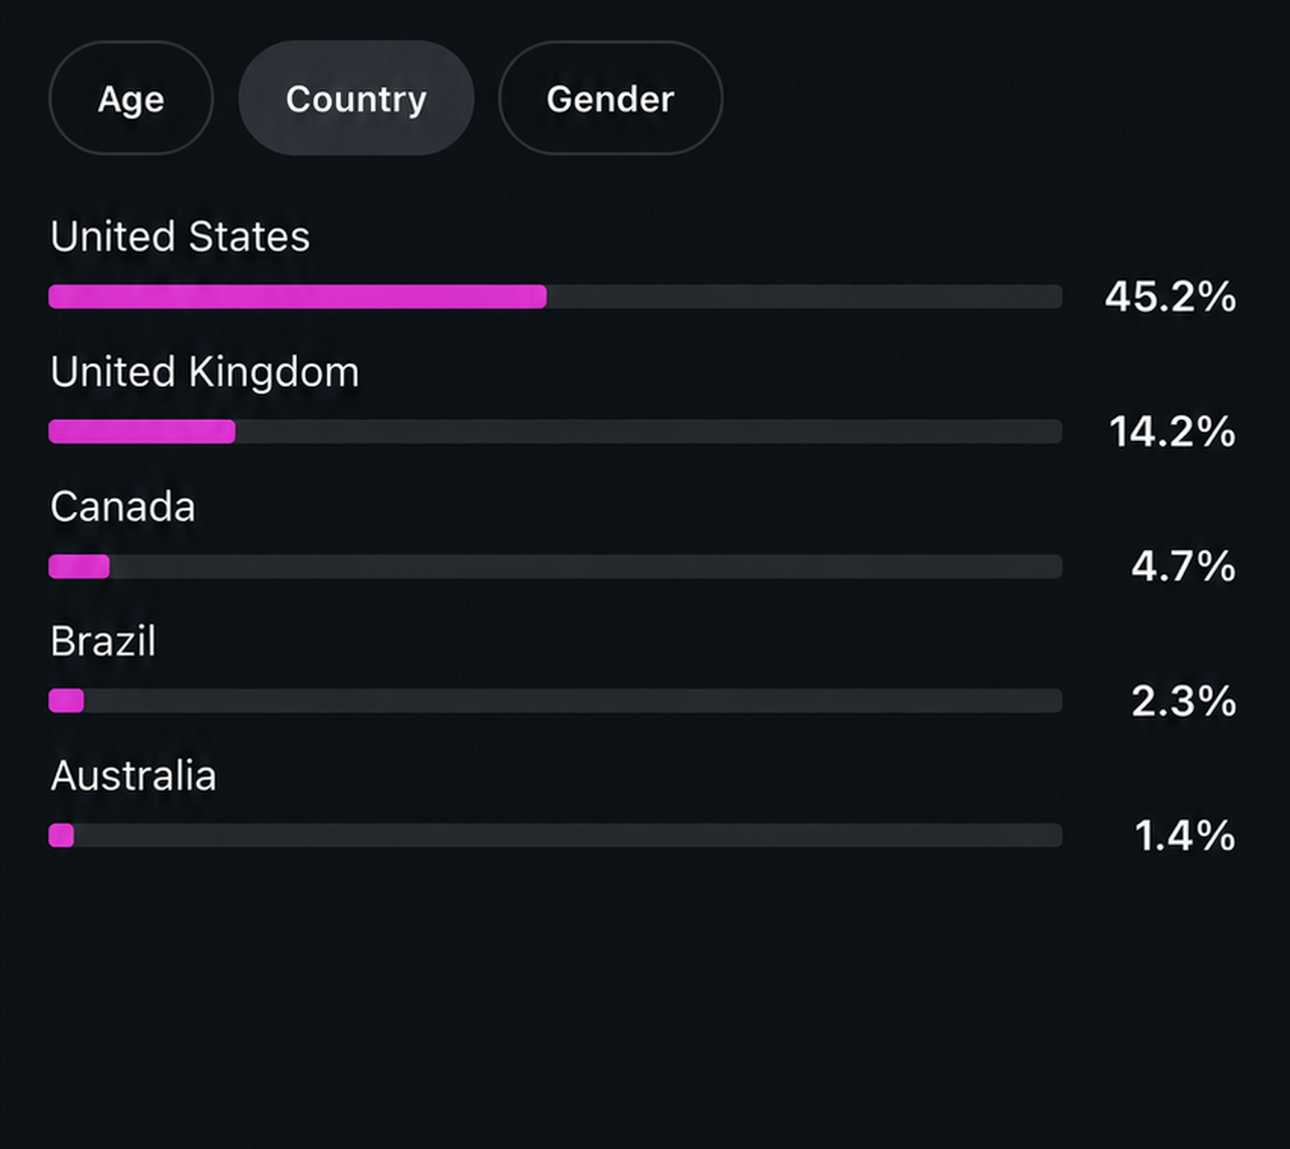
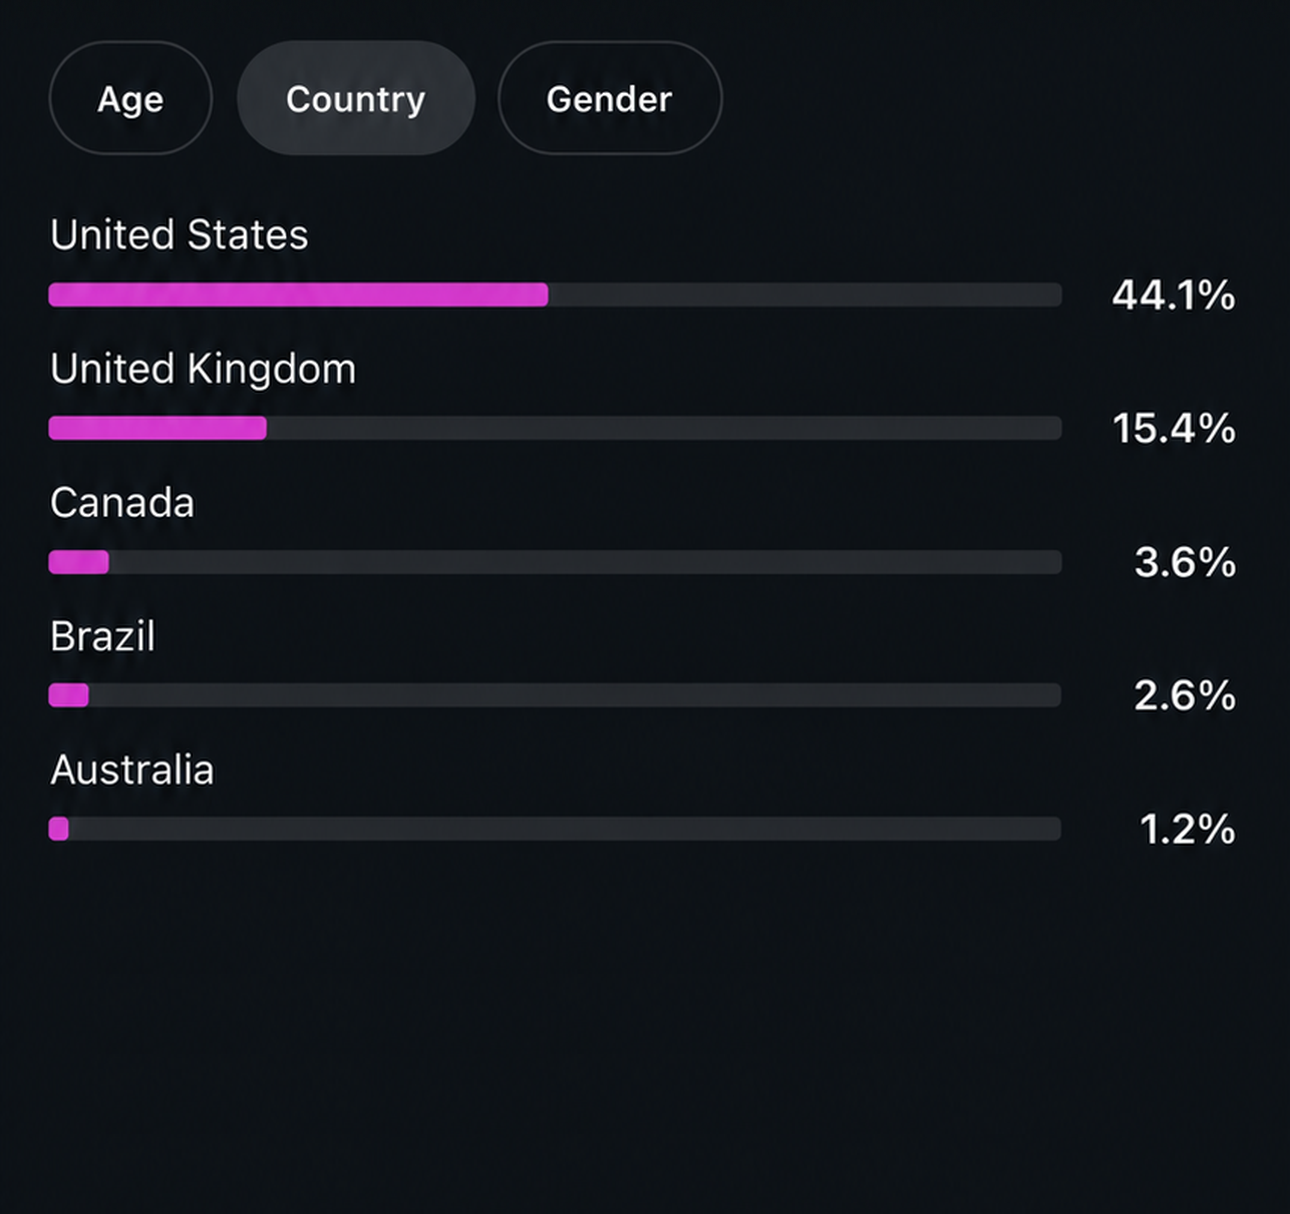
Swap reel 2 country data and decode images before tab swaps to stop the black flash.

diff --git a/new.html b/new.html
@@ -11,14 +11,14 @@
 <meta name="mobile-web-app-capable" content="yes">
 <meta name="apple-mobile-web-app-status-bar-style" content="black-translucent">
 <meta name="theme-color" content="#000000">
-<link rel="manifest" href="manifest_new.json?v=78">
-<link rel="apple-touch-icon" href="icon.png?v=78">
+<link rel="manifest" href="manifest_new.json?v=79">
+<link rel="apple-touch-icon" href="icon.png?v=79">
 <!-- native iOS launch images: iOS shows these INSTANTLY on tap (before our HTML
      loads), killing the system gray phase. Pixel-identical to the in-page splash. -->
-<link rel="apple-touch-startup-image" media="screen and (device-width: 430px) and (device-height: 932px) and (-webkit-device-pixel-ratio: 3) and (orientation: portrait)" href="launch_1290x2796.png?v=78">
-<link rel="apple-touch-startup-image" media="screen and (device-width: 393px) and (device-height: 852px) and (-webkit-device-pixel-ratio: 3) and (orientation: portrait)" href="launch_1179x2556.png?v=78">
+<link rel="apple-touch-startup-image" media="screen and (device-width: 430px) and (device-height: 932px) and (-webkit-device-pixel-ratio: 3) and (orientation: portrait)" href="launch_1290x2796.png?v=79">
+<link rel="apple-touch-startup-image" media="screen and (device-width: 393px) and (device-height: 852px) and (-webkit-device-pixel-ratio: 3) and (orientation: portrait)" href="launch_1179x2556.png?v=79">
 <title>Instagram</title>
-<script src="config.js?v=78"></script>
+<script src="config.js?v=79"></script>
 <script>
 if('serviceWorker' in navigator){
   navigator.serviceWorker.register('sw.js',{updateViaCache:'none'}).then(r=>r.update());
@@ -96,8 +96,8 @@ if('serviceWorker' in navigator){
     animation:insShine 1.4s linear infinite;}
   @keyframes insShine{from{background-position:-85% 0}to{background-position:130% 0}}
   #contentShimmer::after{
-    -webkit-mask-image:url(insights_content_shimmer_mask.png?v=78);
-    mask-image:url(insights_content_shimmer_mask.png?v=78);}
+    -webkit-mask-image:url(insights_content_shimmer_mask.png?v=79);
+    mask-image:url(insights_content_shimmer_mask.png?v=79);}
   #overviewShimmer{display:none;position:relative;overflow:hidden;width:100%;opacity:1;
     transition:opacity .38s ease;}
   #overviewShimmer.on{display:block;}
@@ -105,8 +105,8 @@ if('serviceWorker' in navigator){
   #overviewShimmer.fade{opacity:0;}
   #overviewShimmer img{display:block;width:100%;}
   #overviewShimmer::after{
-    -webkit-mask-image:url(insights_overview_shimmer_mask.png?v=78);
-    mask-image:url(insights_overview_shimmer_mask.png?v=78);}
+    -webkit-mask-image:url(insights_overview_shimmer_mask.png?v=79);
+    mask-image:url(insights_overview_shimmer_mask.png?v=79);}
   /* Overview line chart overlay — sits on the painted graph hole in the screenshot.
      Percents are of insights_overview_full.png (1290×4887): y 766–1296. */
   #viewsGraph{position:absolute;left:0;width:100%;top:15.6742%;height:10.8451%;
@@ -124,14 +124,14 @@ if('serviceWorker' in navigator){
   /* interactions: pinned header (safe-area padding, tiled real-bg strip - the /new1
      pattern) + stitched content + swipe-snap Audience carousel */
   #intHdr{position:sticky;top:0;z-index:10;padding-top:env(safe-area-inset-top,0px);
-          background:#0c1115 url(screens/n_int_hdr_bg.png?v=78) repeat-y;background-size:100% 3px;}
+          background:#0c1115 url(screens/n_int_hdr_bg.png?v=79) repeat-y;background-size:100% 3px;}
   #intHdr img{display:block;width:100%;}
   /* carousel: two snap stops (Top cities at 0, Top countries at D=1066/1290 of the
      viewport). Drag and release -> the card settles into place; ends clamp. */
   #audSnap{width:100%;overflow-x:auto;overflow-y:hidden;scroll-snap-type:x mandatory;
            -webkit-overflow-scrolling:touch;background:#0c1115;}
   #audTrack{width:182.6357%;display:flex;aspect-ratio:2356/685;
-            background:url(screens/n_aud_strip.png?v=78) no-repeat;background-size:100% 100%;}
+            background:url(screens/n_aud_strip.png?v=79) no-repeat;background-size:100% 100%;}
   #audTrack .sA{width:45.2462%;scroll-snap-align:start;}
   #audTrack .sB{width:54.7538%;scroll-snap-align:start;}
 </style>
@@ -143,7 +143,7 @@ if('serviceWorker' in navigator){
     <!-- HOME -->
     <div class="screen active" id="s-home">
       <div class="sheet">
-        <img src="screens/n_home.png?v=78">
+        <img src="screens/n_home.png?v=79">
         <div class="hot" style="left:80%;top:89%;width:20%;height:9%" onclick="goProfile()"></div>
       </div>
     </div>
@@ -151,7 +151,7 @@ if('serviceWorker' in navigator){
     <!-- PROFILE -->
     <div class="screen navpad" id="s-profile">
       <div class="sheet">
-        <img src="screens/n_profile.png?v=78">
+        <img src="screens/n_profile.png?v=79">
         <div class="hot" style="left:3%;top:36%;width:94%;height:7%" onclick="goDashboard()"></div>
       </div>
     </div>
@@ -159,7 +159,7 @@ if('serviceWorker' in navigator){
     <!-- DASHBOARD -->
     <div class="screen" id="s-dashboard">
       <div class="sheet">
-        <img id="dashImg" src="screens/n_dash.png?v=78">
+        <img id="dashImg" src="screens/n_dash.png?v=79">
         <!-- Views row -> insights. This capture has no Interactions row
              (Views / New followers / Content). Extra rows stay unwired. -->
         <div class="hot" style="left:0;top:17.8%;width:100%;height:4.8%" onclick="goInsights()"></div>
@@ -169,11 +169,11 @@ if('serviceWorker' in navigator){
     <!-- INTERACTIONS -->
     <div class="screen navpad" id="s-interactions">
       <div id="intHdr">
-        <img src="screens/n_int_header.png?v=78">
+        <img src="screens/n_int_header.png?v=79">
         <div class="hot" style="left:0;top:0;width:16%;height:58%" onclick="goBackDash()"></div>
       </div>
       <div class="sheet">
-        <img src="screens/n_int_top.png?v=78">
+        <img src="screens/n_int_top.png?v=79">
       </div>
       <div id="audSnap">
         <div id="audTrack"><div class="sA"></div><div class="sB"></div></div>
@@ -184,7 +184,7 @@ if('serviceWorker' in navigator){
     <!-- INSIGHTS -->
     <div class="screen" id="s-insights">
       <div id="insHeader">
-        <img id="h-overview" class="insTabImg on" src="insights_overview_header2.png?v=78">
+        <img id="h-overview" class="insTabImg on" src="insights_overview_header2.png?v=79">
         <img id="h-content" class="insTabImg" alt="">
         <img id="h-audience" class="insTabImg" alt="">
         <div class="hot" style="left:0;top:65%;width:33.3%;height:35%" onclick="insTab('overview')"></div>
@@ -193,11 +193,11 @@ if('serviceWorker' in navigator){
       </div>
       <div id="insScroller">
         <div id="insContent">
-          <img id="c-overview" class="insTabImg on" src="insights_overview_full.png?v=78">
+          <img id="c-overview" class="insTabImg on" src="insights_overview_full.png?v=79">
           <img id="c-content" class="insTabImg" alt="">
           <img id="c-audience" class="insTabImg" alt="">
-          <div id="overviewShimmer"><img src="insights_overview_shimmer.png?v=78" alt=""></div>
-          <div id="contentShimmer"><img src="insights_content_shimmer.png?v=78" alt=""></div>
+          <div id="overviewShimmer"><img src="insights_overview_shimmer.png?v=79" alt=""></div>
+          <div id="contentShimmer"><img src="insights_content_shimmer.png?v=79" alt=""></div>
           <div id="viewsGraph"></div>
           <div id="followsGraph"></div>
           <div id="reelHot" class="hot" onclick="goReel()"></div>
@@ -209,25 +209,25 @@ if('serviceWorker' in navigator){
     <!-- REEL INSIGHTS (Meow meow) -->
     <div class="screen" id="s-reel">
       <div id="reelHeader">
-        <img src="insights_reel_header.png?v=78">
+        <img src="insights_reel_header.png?v=79">
         <div class="hot" style="left:0;top:49%;width:18%;height:51%" onclick="goBackInsights()"></div>
       </div>
       <div id="reelScroller">
         <div id="reelContent">
           <div id="r-overview" class="reelTab on">
-            <img src="insights_reel_full.png?v=78">
+            <img src="insights_reel_full.png?v=79">
             <!-- Audience tab cell of insights_reel_full.png (1290x6607): y 750-890 -->
             <div class="hot" style="left:62%;top:11.35%;width:38%;height:2.12%" onclick="reelTab('aud')"></div>
           </div>
           <div id="r-audience" class="reelTab">
             <div style="position:relative">
-              <img src="insights_reelaud_top.png?v=78">
+              <img src="insights_reelaud_top.png?v=79">
               <!-- Overview tab cell of insights_reelaud_top.png (1290x1509): y 750-890 -->
               <div class="hot" style="left:0;top:49.7%;width:36%;height:9.3%" onclick="reelTab('ov')"></div>
             </div>
             <div style="position:relative">
-              <img id="raAge" src="insights_reelaud_age.png?v=78">
-              <img id="raCty" src="insights_reelaud_cty.png?v=78" style="display:none">
+              <img id="raAge" src="insights_reelaud_age.png?v=79">
+              <img id="raCty" src="insights_reelaud_cty.png?v=79" style="display:none">
               <!-- Age / Country pills sit at the top of both swap images (bubbles y 40-155 of 1290-wide) -->
               <div class="hot" style="left:3%;top:2.3vw;width:14%;height:10.6vw" onclick="raSel('age')"></div>
               <div class="hot" style="left:17.5%;top:2.3vw;width:20%;height:10.6vw" onclick="raSel('cty')"></div>
@@ -240,25 +240,25 @@ if('serviceWorker' in navigator){
     <!-- REEL 2 INSIGHTS (Riding with the bro) -->
     <div class="screen" id="s-reel2">
       <div id="reel2Header">
-        <img src="insights_reel_header.png?v=78">
+        <img src="insights_reel_header.png?v=79">
         <div class="hot" style="left:0;top:49%;width:18%;height:51%" onclick="goBackInsights()"></div>
       </div>
       <div id="reel2Scroller">
         <div id="reel2Content">
           <div id="r2-overview" class="reelTab on">
-            <img src="insights_reel2_full.png?v=78">
+            <img src="insights_reel2_full.png?v=79">
             <!-- Audience tab cell of insights_reel2_full.png (1290x2420): y 750-890 -->
             <div class="hot" style="left:62%;top:31.0%;width:38%;height:5.79%" onclick="reel2Tab('aud')"></div>
           </div>
           <div id="r2-audience" class="reelTab">
             <div style="position:relative">
-              <img src="insights_reel2aud_top.png?v=78">
+              <img src="insights_reel2aud_top.png?v=79">
               <!-- Overview tab cell of insights_reel2aud_top.png (1290x1511): y 750-895 -->
               <div class="hot" style="left:0;top:49.6%;width:36%;height:9.3%" onclick="reel2Tab('ov')"></div>
             </div>
             <div style="position:relative">
-              <img id="ra2Age" src="insights_reel2aud_age.png?v=78">
-              <img id="ra2Cty" src="insights_reel2aud_cty.png?v=78" style="display:none">
+              <img id="ra2Age" src="insights_reel2aud_age.png?v=79">
+              <img id="ra2Cty" src="insights_reel2aud_cty.png?v=79" style="display:none">
               <div class="hot" style="left:3%;top:2.3vw;width:14%;height:10.6vw" onclick="ra2Sel('age')"></div>
               <div class="hot" style="left:17.5%;top:2.3vw;width:20%;height:10.6vw" onclick="ra2Sel('cty')"></div>
             </div>
@@ -268,7 +268,7 @@ if('serviceWorker' in navigator){
     </div>
 
   </div>
-  <div id="insLoading"><img id="loadImg" src="screens/ins_spinner_c.png?v=78"></div>
+  <div id="insLoading"><img id="loadImg" src="screens/ins_spinner_c.png?v=79"></div>
 </div>
 <script>
   // ---- live profile stat numbers (posts/followers/following) ----
@@ -335,7 +335,7 @@ if('serviceWorker' in navigator){
     document.body.style.background = '#0d1115';
   });
 
-  const ASSET_V = '?v=78';   // bump when any screen image changes (cache-bust mobile)
+  const ASSET_V = '?v=79';   // bump when any screen image changes (cache-bust mobile)
   const el = id => document.getElementById(id);
   // Flow-model navigation: exactly one screen is .active (in normal flow, so it sets
   // the document height and iOS places the safe areas naturally). Transitions overlay
@@ -449,16 +449,31 @@ if('serviceWorker' in navigator){
     go('s-reel', 'slide');
   }
   function goBackInsights(){ go('s-insights', 'back'); }
-  // reel tabs (Overview <-> Audience): instant swap, scroll position kept so the
+  // Decode the images that are about to become visible BEFORE swapping, else the
+  // browser paints a not-yet-decoded (blank/dark) frame - the "black flash".
+  // decode() resolves in a microtask when the bitmap is already decoded, so the
+  // swap stays effectively instant after the first time.
+  function swapAfterDecode(imgs, apply){
+    const jobs = imgs.filter(Boolean).map(i => (i.decode ? i.decode().catch(() => {}) : Promise.resolve()));
+    Promise.all(jobs).then(apply, apply);
+  }
+  // reel tabs (Overview <-> Audience): swap with scroll position kept so the
   // tab row stays put; both bodies share identical thumbnail/stats/tab layout.
   function reelTab(t){
-    el('r-overview').classList.toggle('on', t === 'ov');
-    el('r-audience').classList.toggle('on', t === 'aud');
+    const imgs = t === 'aud'
+      ? [...document.querySelectorAll('#r-audience img')].filter(i => i.style.display !== 'none')
+      : [...document.querySelectorAll('#r-overview img')];
+    swapAfterDecode(imgs, () => {
+      el('r-overview').classList.toggle('on', t === 'ov');
+      el('r-audience').classList.toggle('on', t === 'aud');
+    });
   }
   // Audience details selector: Age <-> Country, instant image swap (no shimmer)
   function raSel(w){
-    el('raAge').style.display = w === 'age' ? 'block' : 'none';
-    el('raCty').style.display = w === 'cty' ? 'block' : 'none';
+    swapAfterDecode([el(w === 'age' ? 'raAge' : 'raCty')], () => {
+      el('raAge').style.display = w === 'age' ? 'block' : 'none';
+      el('raCty').style.display = w === 'cty' ? 'block' : 'none';
+    });
   }
   // Reel 2 (Riding with the bro): same structure as reel 1
   function kickReel2Scroller(){
@@ -474,12 +489,19 @@ if('serviceWorker' in navigator){
     go('s-reel2', 'slide');
   }
   function reel2Tab(t){
-    el('r2-overview').classList.toggle('on', t === 'ov');
-    el('r2-audience').classList.toggle('on', t === 'aud');
+    const imgs = t === 'aud'
+      ? [...document.querySelectorAll('#r2-audience img')].filter(i => i.style.display !== 'none')
+      : [...document.querySelectorAll('#r2-overview img')];
+    swapAfterDecode(imgs, () => {
+      el('r2-overview').classList.toggle('on', t === 'ov');
+      el('r2-audience').classList.toggle('on', t === 'aud');
+    });
   }
   function ra2Sel(w){
-    el('ra2Age').style.display = w === 'age' ? 'block' : 'none';
-    el('ra2Cty').style.display = w === 'cty' ? 'block' : 'none';
+    swapAfterDecode([el(w === 'age' ? 'ra2Age' : 'ra2Cty')], () => {
+      el('ra2Age').style.display = w === 'age' ? 'block' : 'none';
+      el('ra2Cty').style.display = w === 'cty' ? 'block' : 'none';
+    });
   }
   const INS_PAGES = {
     overview: ['insights_overview_header2.png', 'insights_overview_full.png'],

diff --git a/sw.js b/sw.js
@@ -4,7 +4,7 @@
 // background. If the background refresh finds a NEW app shell, clients are notified
 // so they can silently reload while the splash still covers the screen.
 // Bump CACHE on each deploy; activate purges older caches.
-const CACHE = 'ig-v78';
+const CACHE = 'ig-v79';
 
 self.addEventListener('install', () => self.skipWaiting());
 

diff --git a/screens/CROP.md b/screens/CROP.md
@@ -87,5 +87,5 @@ Opened from the second Content row (`#reelHot2`, one 172 px row pitch below Meow
 1. `insights_reel2_full.png` (1290×2420) = `Overview.png` `y = 360 … 2780` — one non-scrolling Overview page (stats 57K/144/2.6K/33K/13K, Summary 1,679,719 / 326,576 / 21s / 1694, Views-over-time top). Content ≈ 807 CSS px < the 812 px scroller, so it cannot scroll; the graph cut sits below the fold.
 2. `insights_reel2aud_top.png` (1290×1511) = `audence_age_1.png` `y = 360 … 1871` (cut 40 px above the pills at 1911).
 3. `insights_reel2aud_age.png` (1290×1416) = `audence_age_2.png` `y = 1464 … 2780` (pills at 1504; full 13-17→65+ list) + that shot’s bg `y = 2680 … 2780` once for clearance.
-4. `insights_reel2aud_cty.png` (1290×1149) = `Country.png` `y = 1871 … 2780` (US 45.2 / UK 14.2 / Canada 4.7 / Brazil 2.3 / Australia 1.4) + its bg `y = 2732 … 2780` ×5.
+4. `insights_reel2aud_cty.png` (1290×1214) = folder `(18)` `AFBFB646-…png` `y = 1806 … 2780` (pills at 1846; US 44.1 / UK 15.4 / Canada 3.6 / Brazil 2.6 / Australia 1.2) + its bg `y = 2700 … 2780` ×3. That shot’s bg is ~0.8 brighter than the top piece, so the first 38 rows are dither-faded to the top’s tone.
 5. Same tab/pill hotspots as reel 1 (`reel2Tab`, `ra2Sel`); Audience-tab cell on the Overview body at y 750–890 of 2420.
